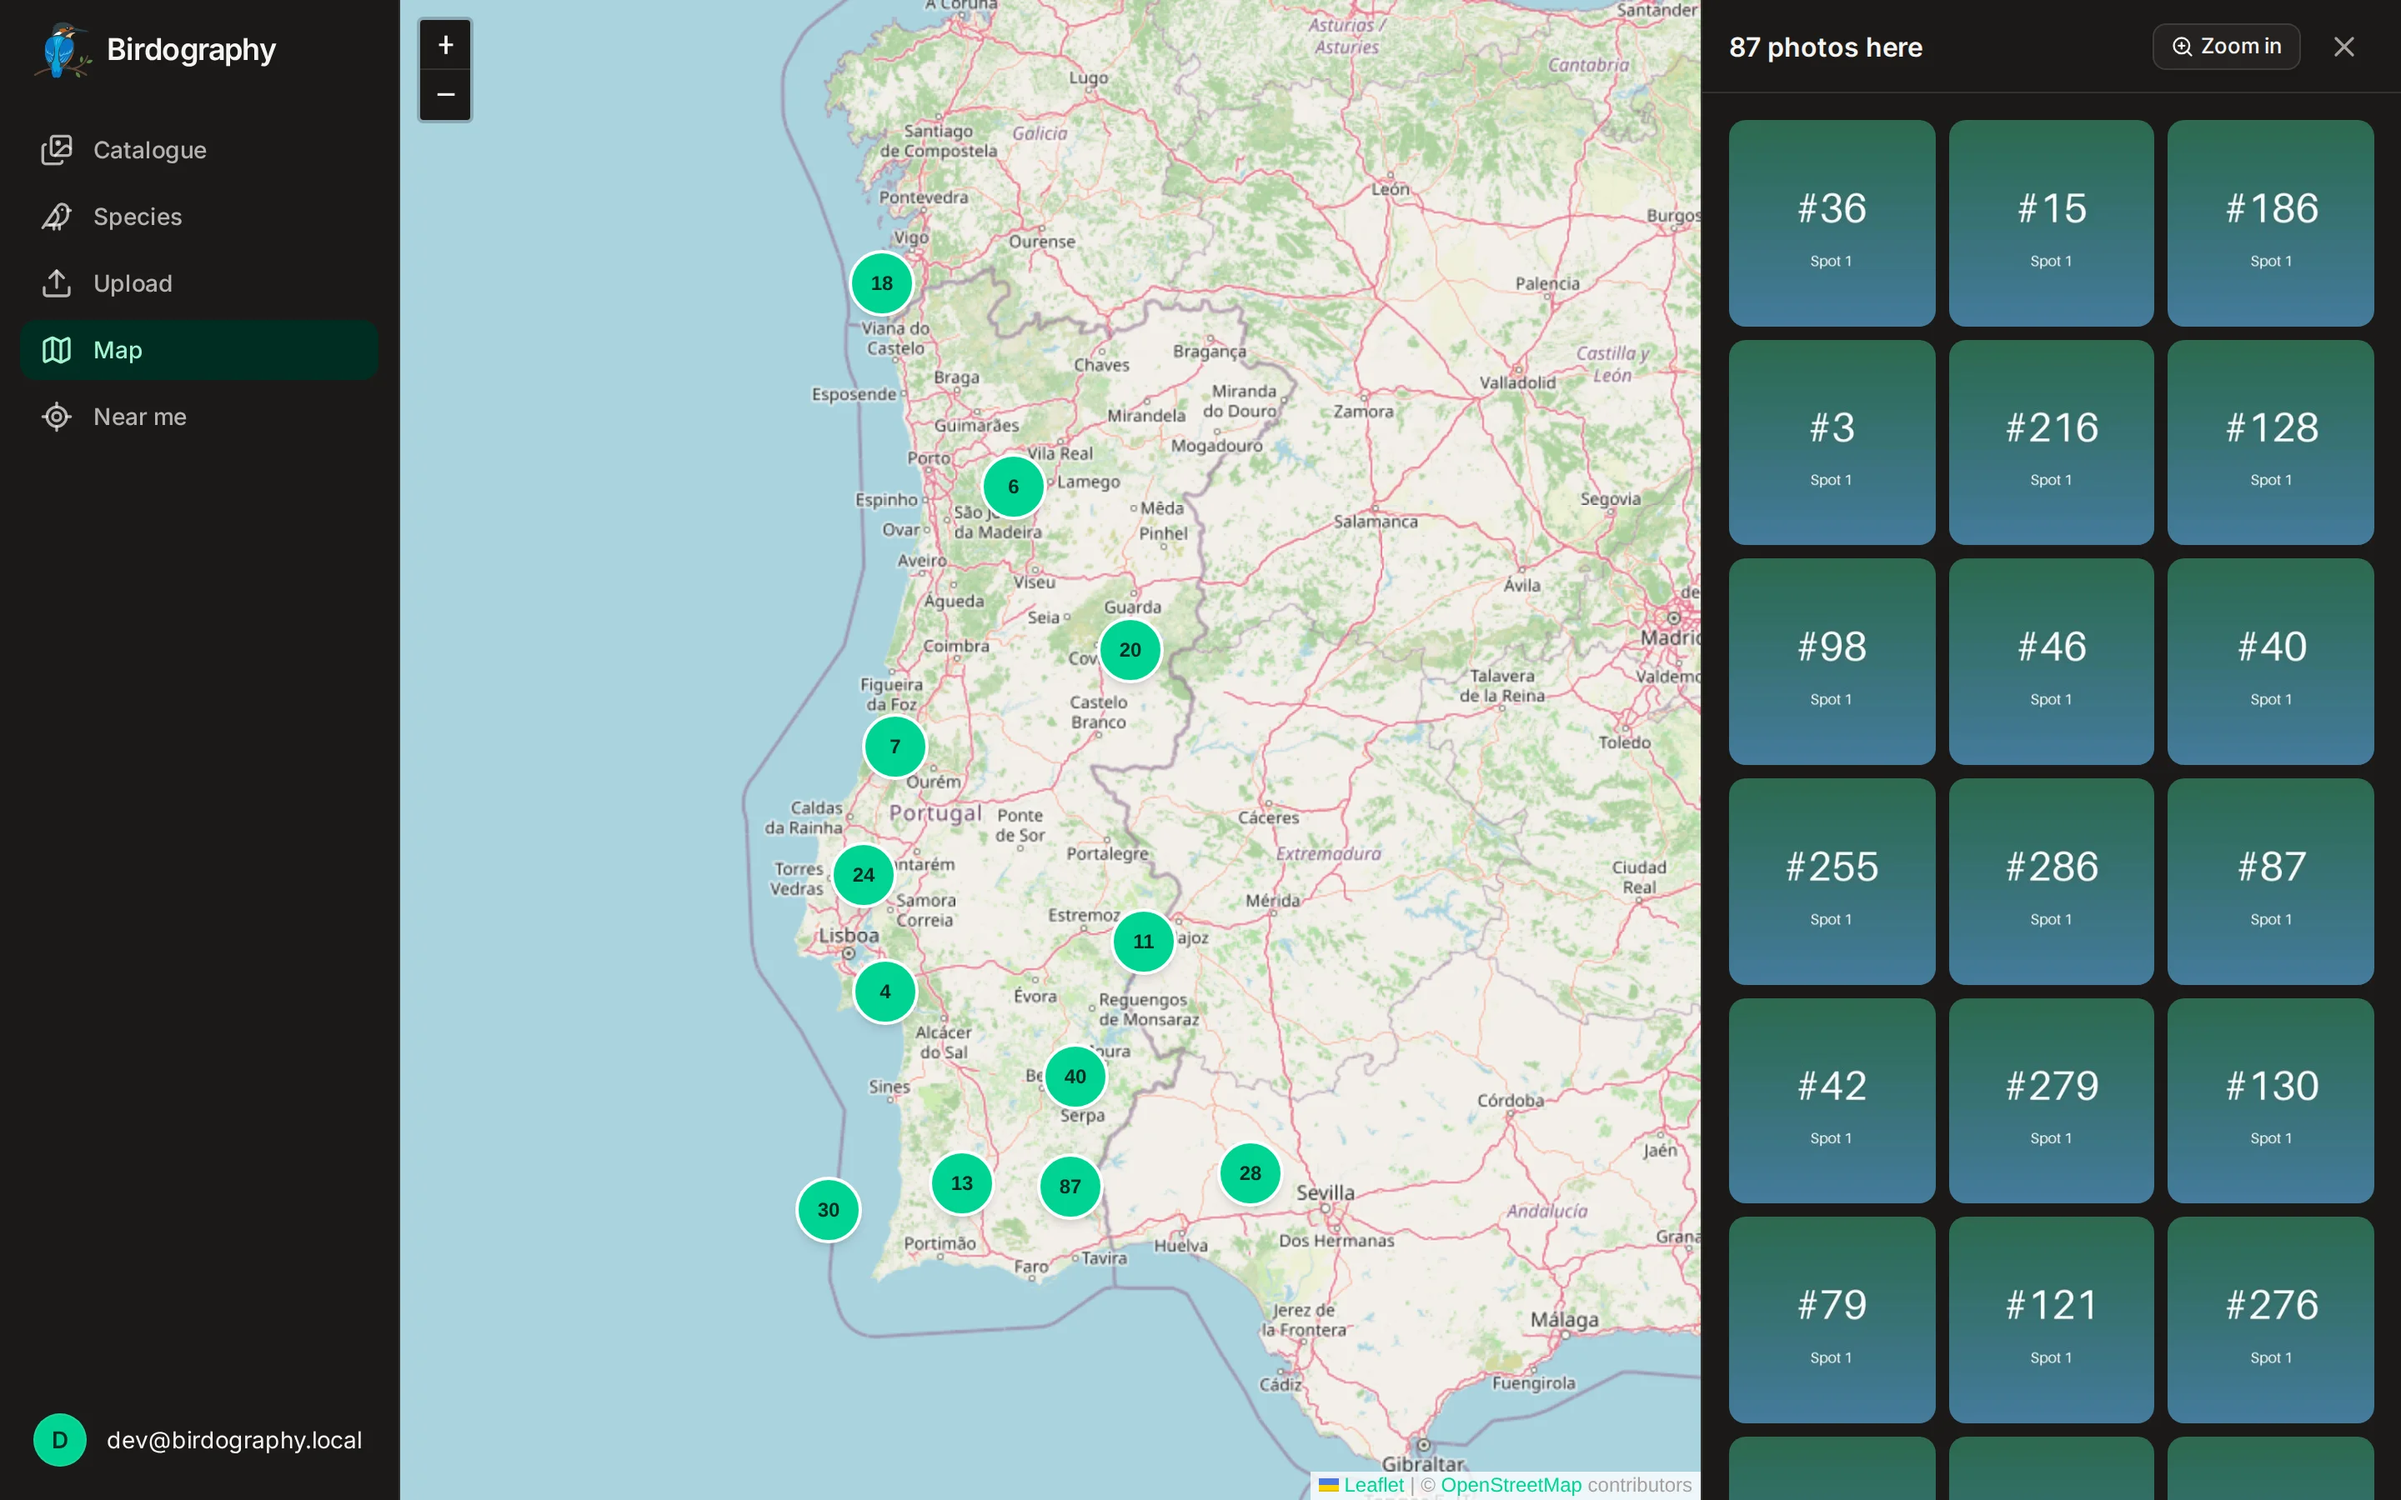
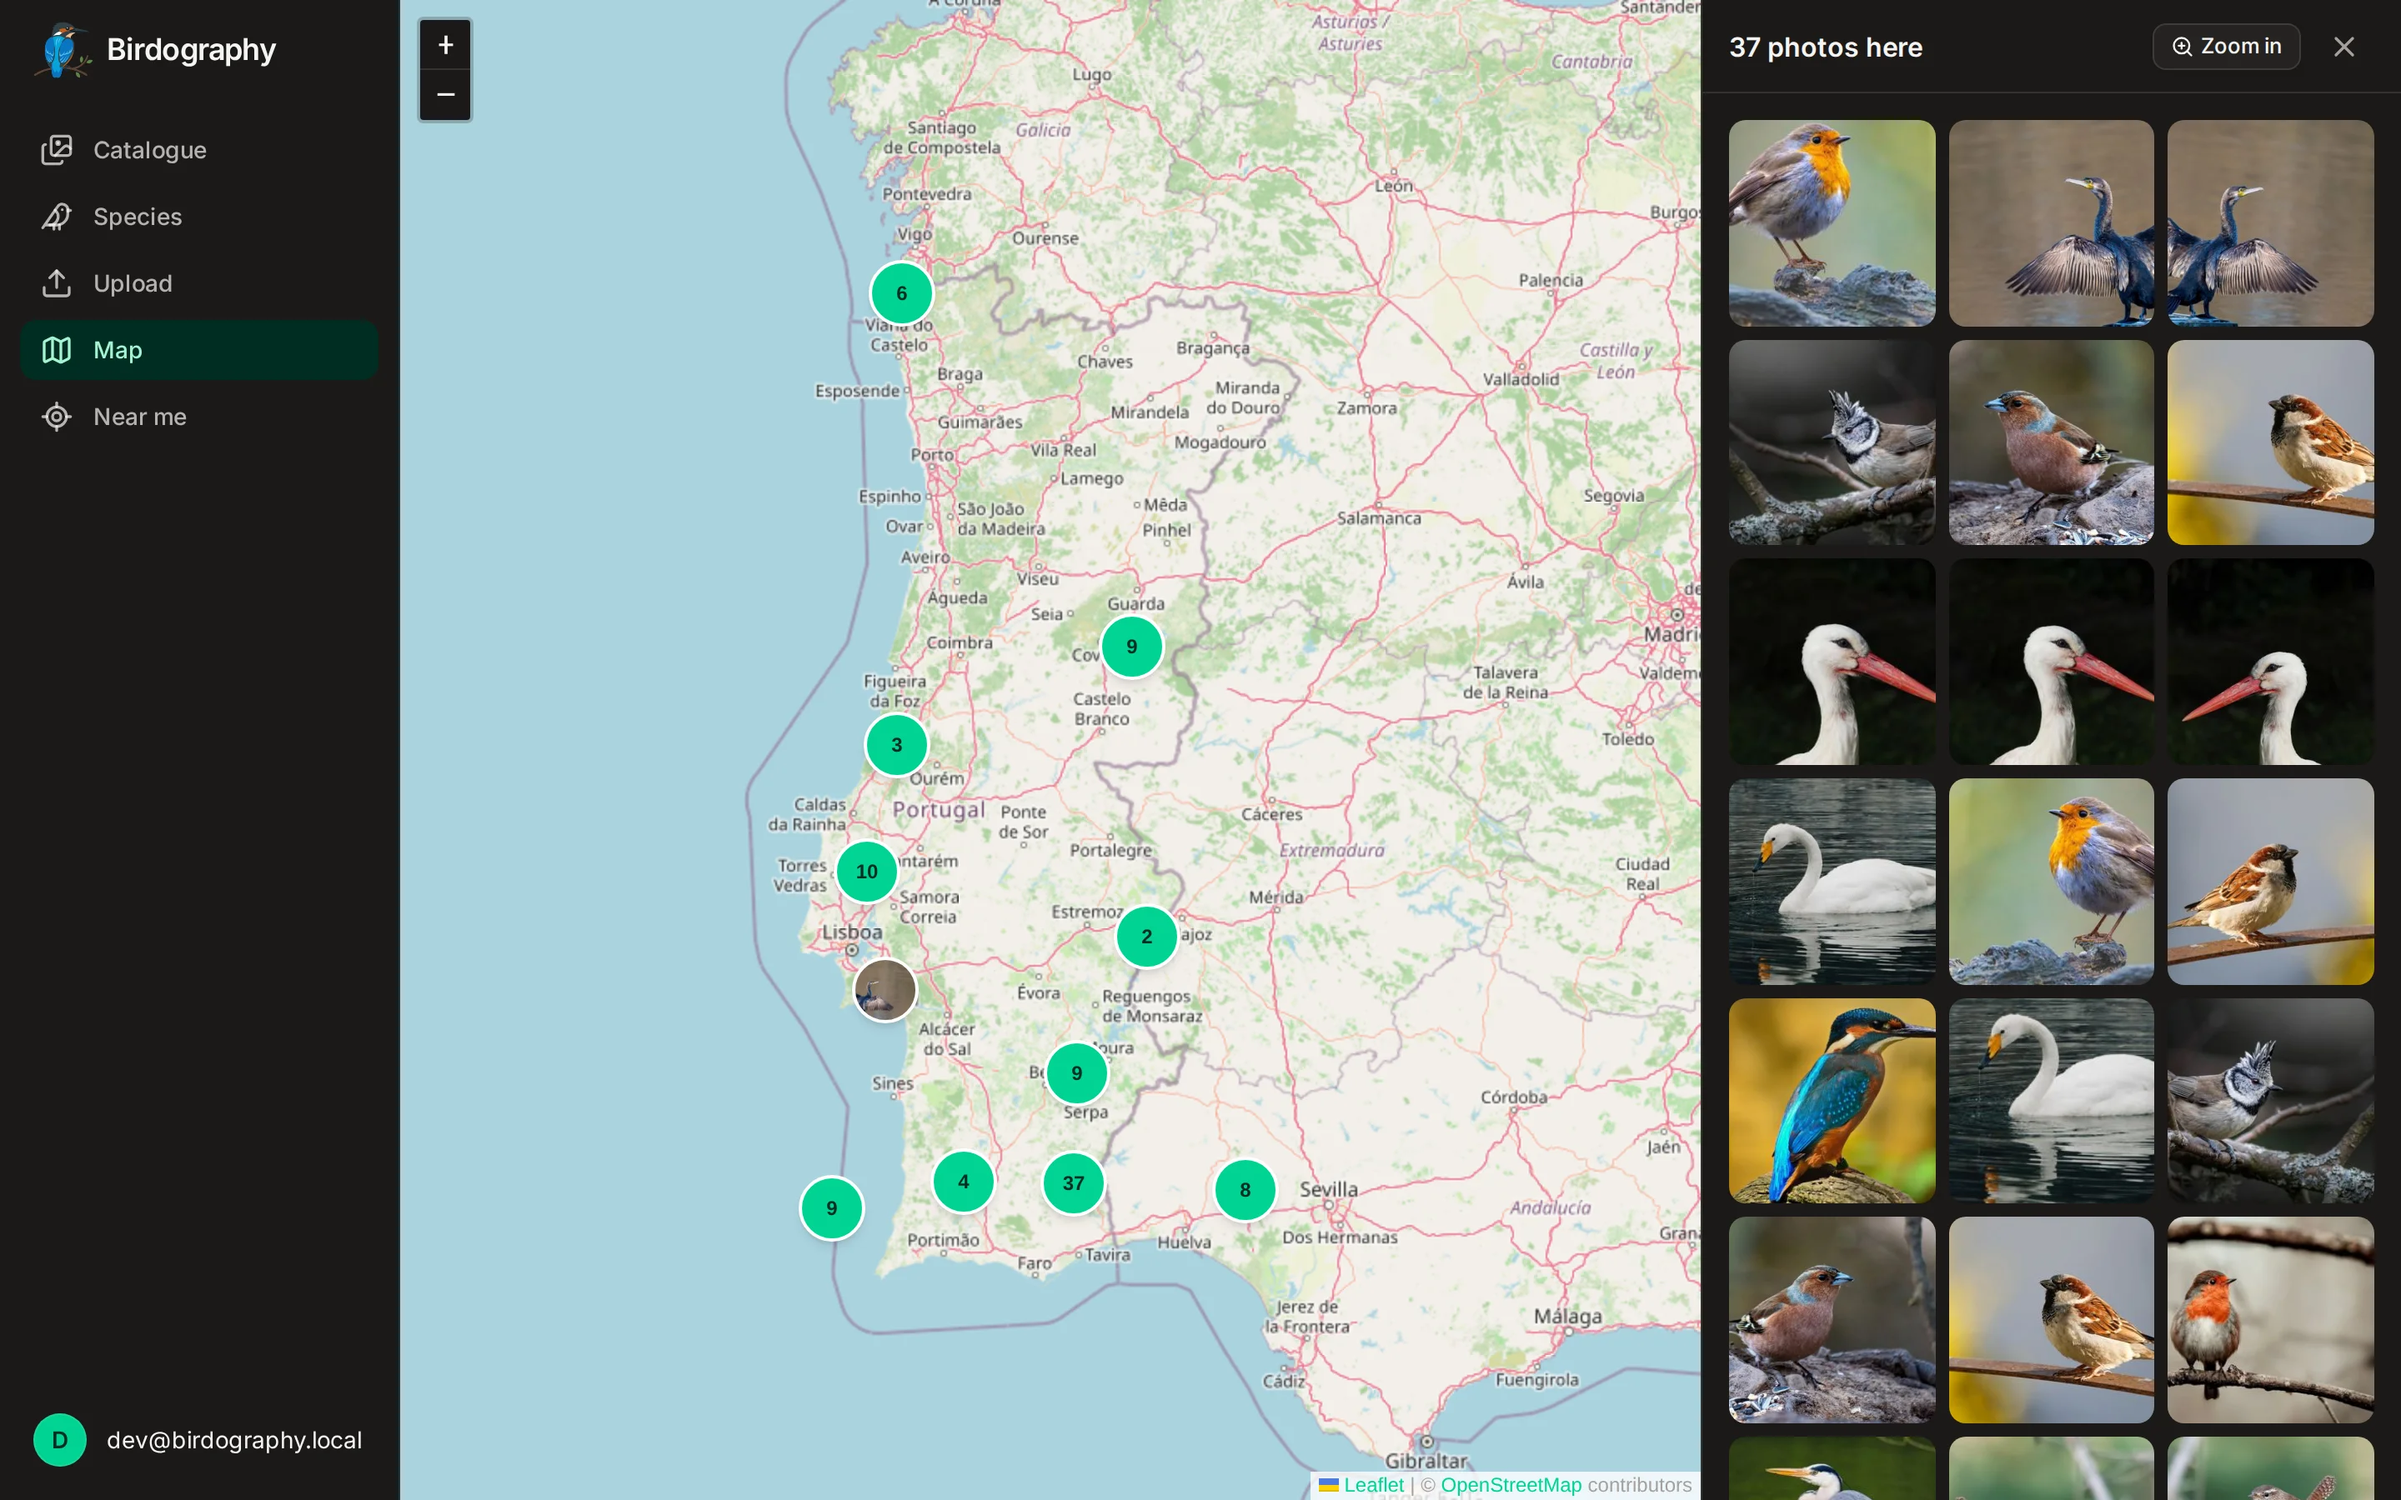
Screenshots with real bird photos and eBird names; README (plan 0009 step 4)

diff --git a/docs/plans/0009-real-sample-photos-and-ebird-taxonomy.md b/docs/plans/0009-real-sample-photos-and-ebird-taxonomy.md
@@ -1,6 +1,6 @@
 # Plan 0009: Real sample photos, and the eBird taxonomy
 
-Status: decisions confirmed 2026-11-19 (§9) · in progress · Roadmap: [Phase 2](../../ROADMAP.md#phase-2-locations--species) · Date: 2026-11-19
+Status: done (2026-11-19) · Roadmap: [Phase 2](../../ROADMAP.md#phase-2-locations--species) · Date: 2026-11-19
 
 Three parts:
 
@@ -208,3 +208,28 @@ One commit (and PR) per step, CI green each time:
 | D14 | Ranking: your species first, then prefix matches, then taxonomic order; hyphens as spaces; the Catalogue filter offers only species you have photographed. |
 | D15 | Default list order: taxonomic order, then scientific name. |
 | D16 | **New:** a profile setting for the main name language (English, Portuguese or scientific), used everywhere a species name is shown or picked; the other two stay as the secondary line. Stored per user (`users.species_name_language`, a migration), default English. Built with step 3. |
+
+## 10. Implementation notes (2026-11-19)
+
+- **Step 1, seeder** (`355582b`): as §2. Every seed species checked against the downloaded taxonomy (codes, both
+  names, family, order, taxonomic order): all 13 match. About 0.05 s to make a photo, 210 KB at 1600 px.
+- **Step 2, import** (`1841101`): `app/taxonomy.py` and `import-taxonomy [--dir DIR] [--if-missing]`, with stdlib
+  `urllib` (no new dependency). `--dir` covers both the dev cache and offline installs (§3.1's `--file`); the dev
+  stack mounts `.dev/taxonomy` at `/taxonomy`, created by `dev.sh` so it belongs to the user. The import runs
+  *before* the seed, and `--if-missing` checks that every species of the taxonomy has its code in the table (the
+  seed's 13 don't count as loaded). First run in the dev stack: 11,188 added, the seed's 13 unchanged, about 15 s
+  including the two downloads; later `up`s skip it. A code eBird changed for the same scientific name is followed.
+- **Step 3, search, language and merge** (`8028d23`):
+  - Pre-check 2: the ranked search over 11,201 species answers in 25–40 ms per request through the API, so no
+    index. Escapes `%` and `_` in the text.
+  - D16: `users.species_name_language` (migration 0014, check constraint), `PATCH /auth/me`, a *Species names*
+    card on the profile with an example. `speciesName`/`speciesOtherNames` take the language; components get it
+    from `useSpeciesNames()`, fed by a context in `Layout`. A species with no common names no longer repeats the
+    scientific name on its second line.
+  - D11a: `POST /species/{id}/merge-into/{target}` and `merge-species`; only species without an eBird code can be
+    merged away. The photo details show a merge button next to hand-added species (photos now carry
+    `ebird_code`), opening a picker without "Add as new".
+- **Step 4, screenshots:** the Upload tab's JPEGs are the kingfisher sample. The Catalogue and phone photo shots open
+  the first tile with a species rather than a fixed one (the first Kingfisher is below the fold with seed 42).
+  Pre-check 3: the held pair shows the camera JPEG's thumbnail, so the NEF's own preview never appears.
+- Tests: backend 326 (was 300), frontend 261 (was 252), both at 100%.

diff --git a/README.md b/README.md
@@ -52,6 +52,11 @@ them, or zoom in to split it. A photo opened from the map keeps the map beside i
   <img src="docs/screenshots/map-dark.webp" alt="The Map with a group of photos open beside it, dark theme" width="49%">
 </p>
 
+**Every species, in your language.** The species list is the eBird taxonomy, over 11,000 species with their
+English, Portuguese and scientific names, loaded with one command. The search finds a species by any of the three,
+puts the ones you have photographed first, and the profile page sets which name comes first everywhere. A species
+you added by hand and later recognise can be merged into the real one, photos and all.
+
 **On any screen, in your theme.** A sidebar on desktop, a bottom tab bar on phones, with large touch targets.
 Light, dark, or whatever your system uses, chosen on the profile page.
 
@@ -134,13 +139,13 @@ environment variables in `.env`, listed in [CONTRIBUTING.md → Settings](CONTRI
 apart from any real install; see [Dev stack](CONTRIBUTING.md#dev-stack). [CONTRIBUTING.md](CONTRIBUTING.md) also
 covers running the backend and frontend by hand, the API, migrations, tests (100% coverage on both sides) and the
 design decisions behind each part, written up in [docs/plans](docs/plans). The screenshots above come from the dev
-stack: `scripts/screenshots.sh` retakes them. The bird photos in the dev stack and the screenshots are from Pixabay; the photographers
+stack: `scripts/screenshots.sh` retakes them. Species names and taxonomy come from
+[eBird](https://ebird.org) (Cornell Lab of Ornithology), downloaded by each install and not redistributed here. The bird photos in the dev stack and the screenshots are from Pixabay; the photographers
 are credited in [backend/devtools/samples/CREDITS.md](backend/devtools/samples/CREDITS.md).
 
 ## What's next
 
-Phase 2 turns the catalogue into a field guide: the eBird taxonomy as a built-in species list, regions for every
-photo, photos grouped into the places you stop at, a page per species, and the **Near me** tab with the species
+Phase 2 turns the catalogue into a field guide: after the built-in eBird species list, regions for every photo, photos grouped into the places you stop at, a page per species, and the **Near me** tab with the species
 likely around you. Phase 3 tracks the gaps: the species of a region you haven't photographed yet, your life list,
 stats. The full plan, with what is done, is in [ROADMAP.md](ROADMAP.md). Ideas and feedback are welcome in
 [issues](https://github.com/MatiasN/Birdography/issues).
